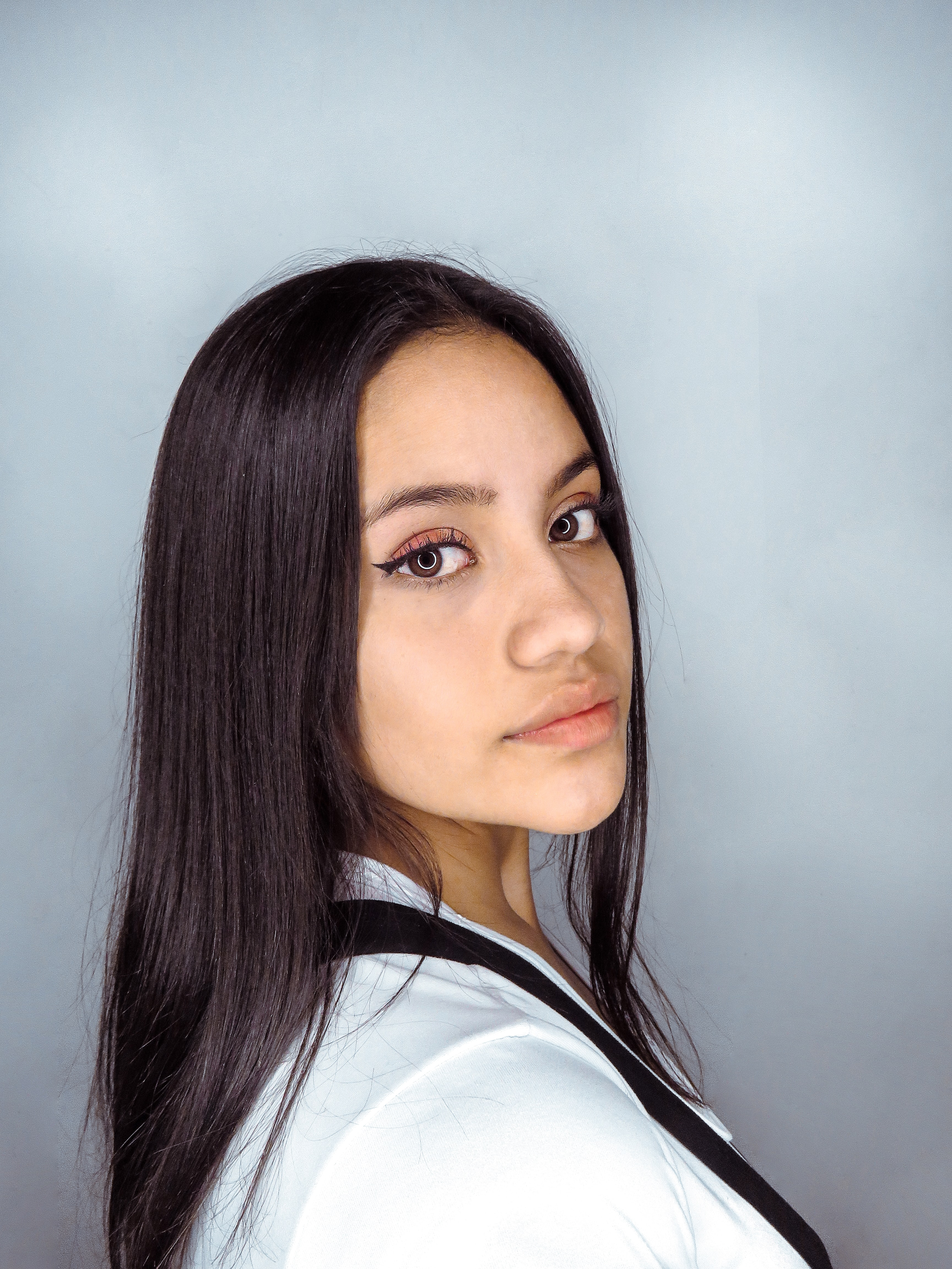
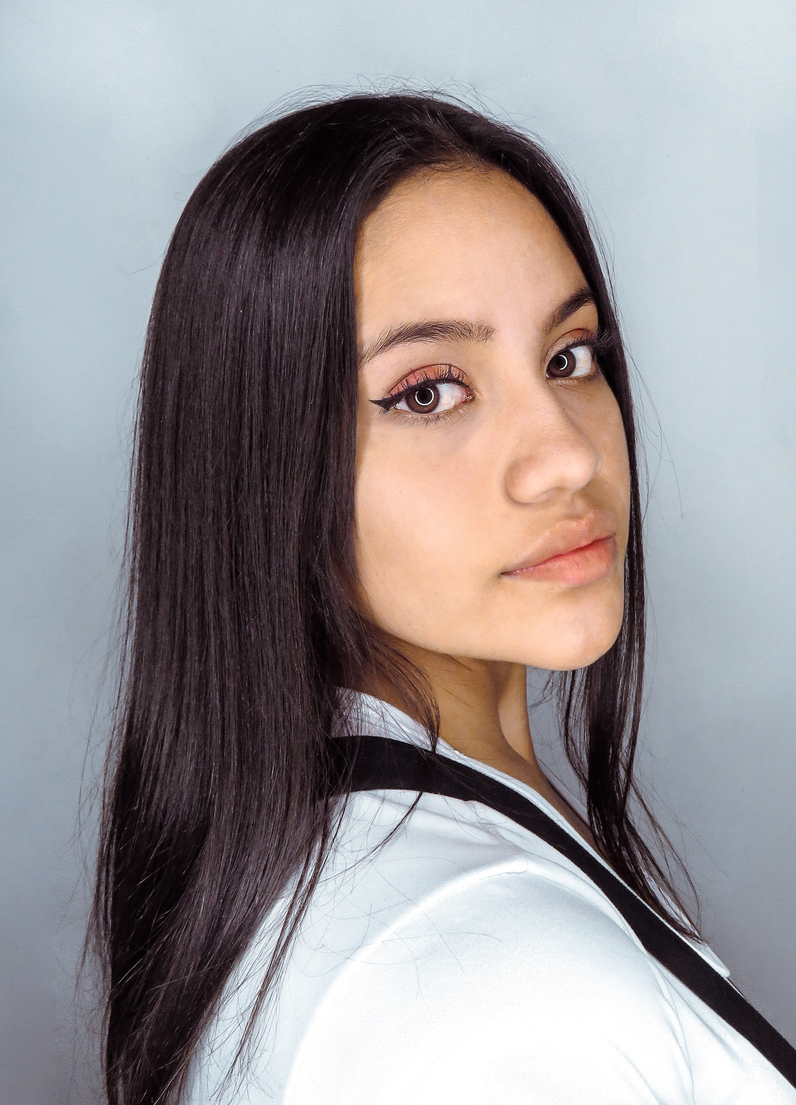
eat: add photographer hero section with name, location, tagline, centered contact button, and portrait

diff --git a/css/style.css b/css/style.css
@@ -1,5 +1,9 @@
 @import url("photographer.css");
 
+/* * {
+  outline: 1px solid red;
+} */
+
 .sr-only {
   position: absolute;
   width: 1px;
@@ -18,7 +22,7 @@
   align-items: center;
   justify-content: center;
   text-decoration: none;
-  border: solid 2px blue;
+  /* border: solid 2px blue; */
 }
 
 body {
@@ -26,7 +30,7 @@ body {
   margin: 0 auto;
   max-width: 1440px;
   max-height: 1024px;
-  border: solid 2px yellow;
+  /* border: solid 2px yellow; */
 }
 
 header {
@@ -47,7 +51,7 @@ header {
   grid-template-columns: 1fr 1fr 1fr;
   gap: 70px;
   margin-top: 100px;
-  border: solid 2px red;
+  /* border: solid 2px red; */
 }
 
 .photographer-card {
@@ -63,14 +67,13 @@ a:focus {
   outline-offset: 2px;
 }
 
-.photograph-portrait,
 .photographer-portrait {
   width: 200px;
   height: 200px;
   object-fit: cover;
   object-position: center;
   border-radius: 50%;
-  border: solid 2px green;
+  /* border: solid 2px green; */
 }
 
 h1 {
@@ -82,12 +85,6 @@ h1 {
   color: #901c1c;
   font-weight: 400;
   font-size: 36px;
-}
-
-.photograph-name {
-  color: #901c1c;
-  font-weight: 400;
-  font-size: 64px;
 }
 
 .photographer-location {
@@ -106,12 +103,6 @@ h1 {
   color: #000000;
   font-weight: 400;
   font-size: 10px;
-}
-
-.photograph-tagline {
-  color: #000000;
-  font-weight: 400;
-  font-size: 18px;
 }
 
 .photographer-price {

diff --git a/css/photographer.css b/css/photographer.css
@@ -11,6 +11,11 @@
 .photograph-hero {
   display: flex;
   flex-direction: row;
+  width: 1240px;
+  height: 100%;
+  justify-content: space-around;
+  align-items: center;
+  /* border: solid 2px violet; */
 }
 
 .photograph-info {
@@ -19,9 +24,32 @@
   line-height: 2px;
 }
 
-/* Bouton d’ouverture / envoi du formulaire */
+.photograph-portrait {
+  width: 200px;
+  height: 200px;
+  object-fit: cover;
+  object-position: center;
+  border-radius: 50%;
+  /* border: solid 2px green; */
+}
+
+.photograph-name {
+  color: #901c1c;
+  font-weight: 400;
+  font-size: 64px;
+  /* border: solid 2px red; */
+}
+
+.photograph-tagline {
+  color: #000000;
+  font-weight: 400;
+  font-size: 18px;
+  /* border: solid 2px brown; */
+}
+
+
 .contact_button {
-  font-size: 20px;
+  font-size: 18px;
   font-weight: bold;
   color: white;
   padding: 11px;
@@ -31,6 +59,7 @@
   background-color: #901c1c;
   border-radius: 5px;
   cursor: pointer;
+  /* border: solid 2px darkblue; */
 }
 
 .modal {
